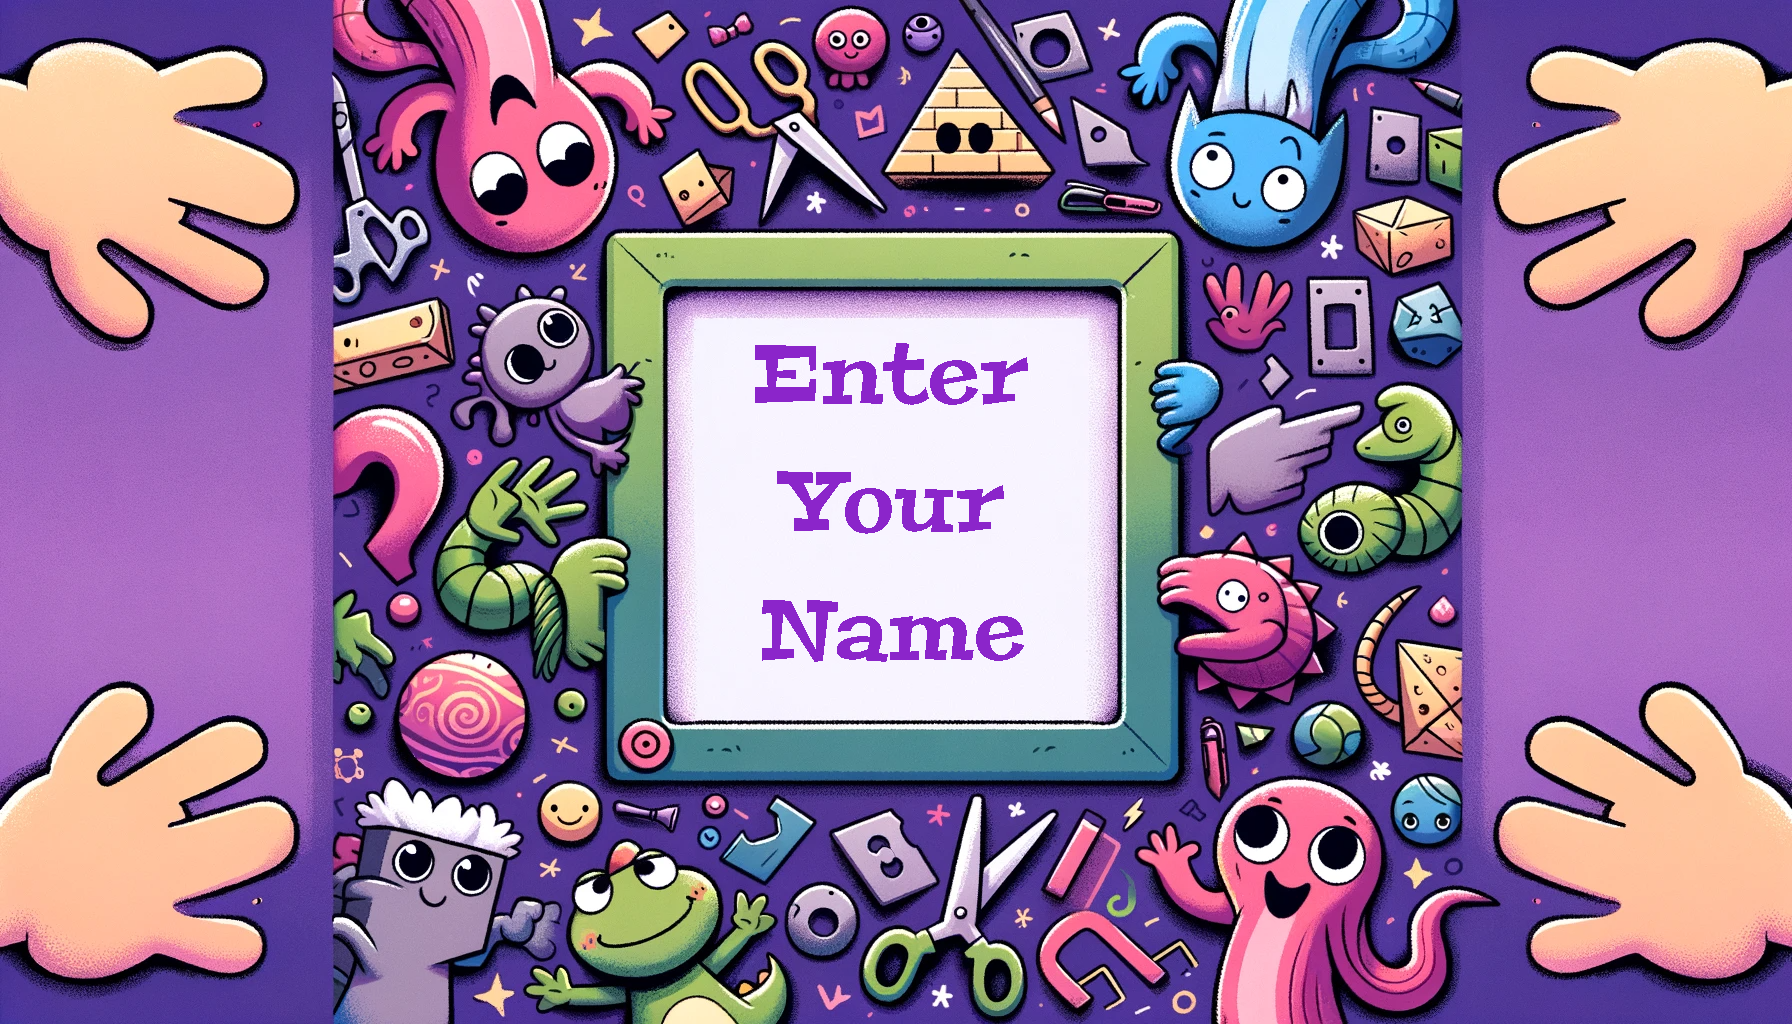
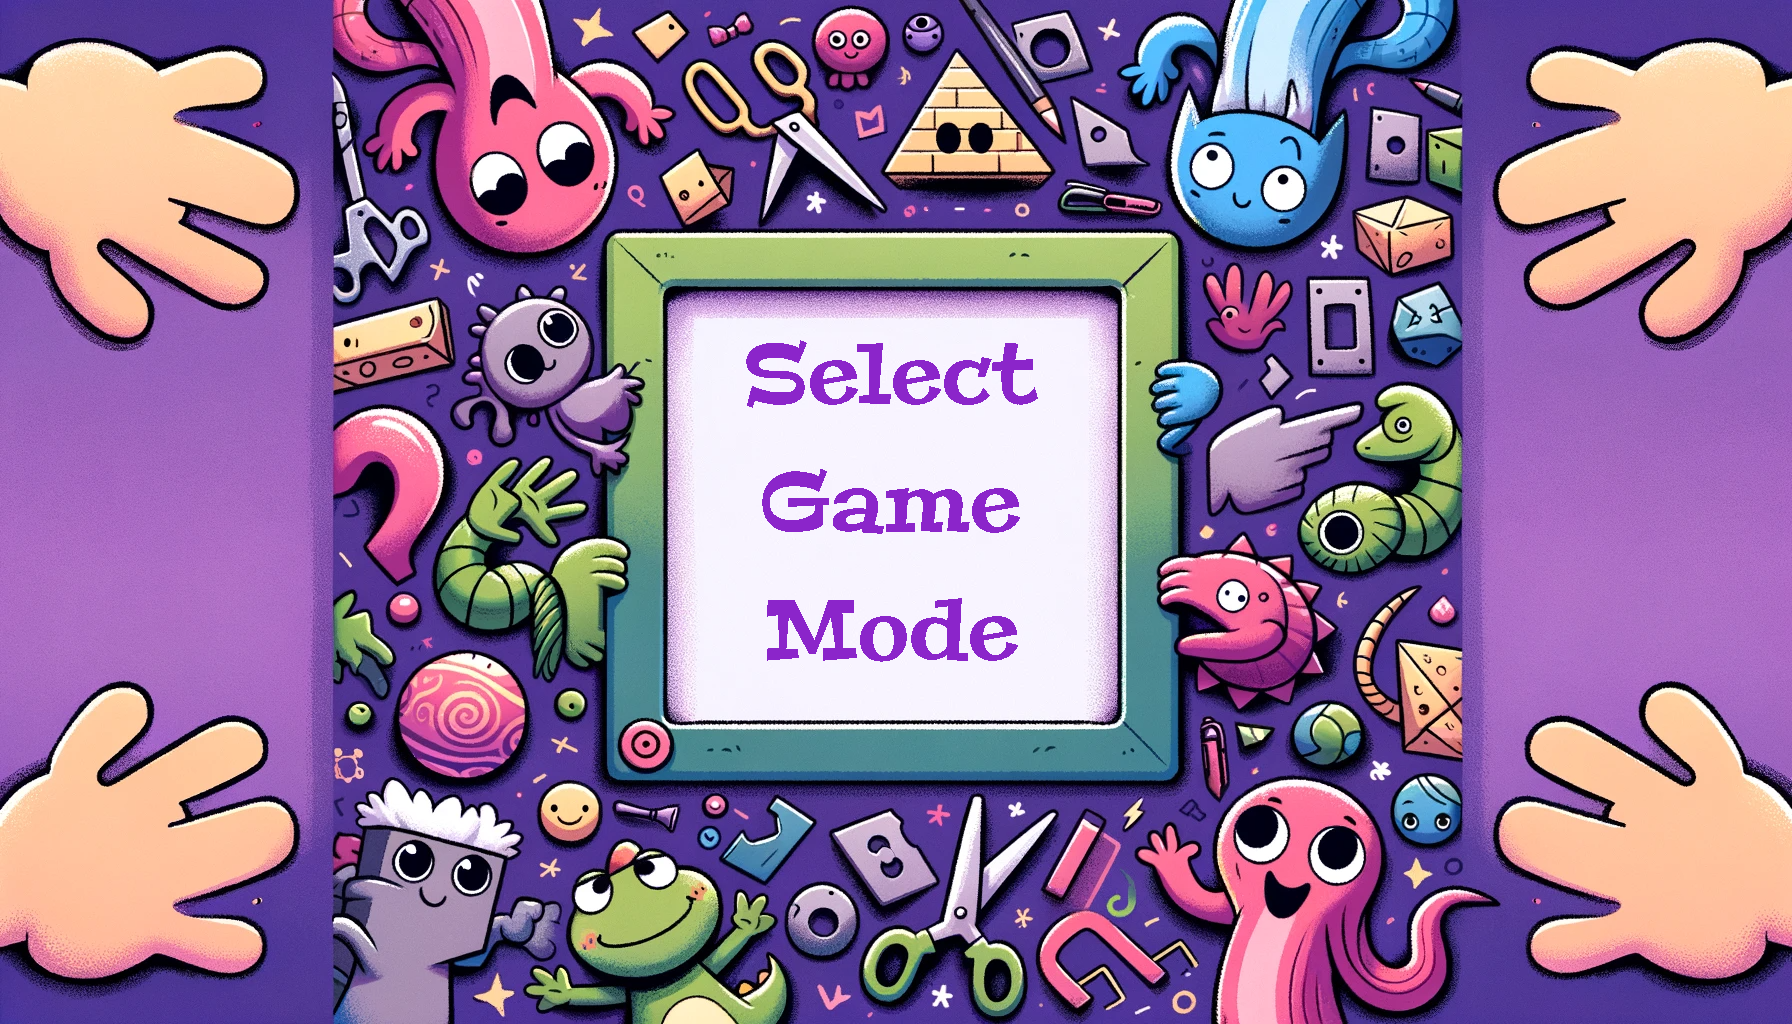
Select Game mode page push

Changed region(s): [[0.4062, 0.3125, 0.5938, 0.4062], [0.4062, 0.4375, 0.5625, 0.5312], [0.4062, 0.5625, 0.5625, 0.6562]]

diff --git a/styles/style.css b/styles/style.css
@@ -9,27 +9,22 @@
 }
 /* Intro body */
 .homeBody{
-    background-image: url(/assets/first_background.png);
+    background-image: url(/assets/1_background_with_text.png);
     background-repeat: no-repeat;
     background-position: center;
     background-size: cover;
     background-attachment: fixed;
-    /* position: relative;
-  width: 100%;
-  height: 100vh;
-  background-image: url(/assets/first_background.png);
-  background-size: cover;
-  margin: 0; */
-}
-.midText123 {
-    position: relative;
-    top: 200px; /* Change this value to move the text up or down */
-    left: 500px; /* Change this value to move the text left or right */
-    color: #8B25CA; /* Text color */
-    /* Add more styling as needed */
-    font-size: 56px;
-  }
 
+}
+.fixed-bottom{
+    margin-bottom: 30px;
+}
+.btn{
+    background-color: #7B1A9D;
+    font-family: peralta;
+    color: #fff;
+    box-shadow: 0px 0px 8px 10px #8a038f;
+}
 
 
 /* main game body */
@@ -40,4 +35,10 @@
     background-size: cover;
     background-attachment: fixed;
 }
-
+.namesBody{
+    background-image: url(/assets/2_background_with_text.png);
+    background-repeat: no-repeat;
+    background-position: center;
+    background-size: cover;
+    background-attachment: fixed;
+}

diff --git a/index.html b/index.html
@@ -4,7 +4,7 @@
 <head>
     <meta charset="utf-8">
     <meta name="viewport" content="width=device-width, initial-scale=1">
-    <title>Bootstrap demo</title>
+    <title>Select Game Mode</title>
     <link href="https://cdn.jsdelivr.net/npm/bootstrap@5.3.2/dist/css/bootstrap.min.css" rel="stylesheet"
         integrity="sha384-T3c6CoIi6uLrA9TneNEoa7RxnatzjcDSCmG1MXxSR1GAsXEV/Dwwykc2MPK8M2HN" crossorigin="anonymous">
         <link rel="preconnect" href="https://fonts.googleapis.com">
@@ -31,10 +31,14 @@
     </nav>
 <!-- Navbar end -->
 
-<!-- "Enter Your Name" text Start-->
-<p class="midText text-center" style="margin-top: 220px;">Select <br> Game <br>Mode</p>
-
-<!-- "Enter Your Name" text End-->
+<!-- "GameModes Buttons"  Start-->
+<div class="fixed-bottom">
+<div class="d-flex justify-content-evenly">
+    <button type="button" class="btn btn-danger btn-lg">1 vs 1</button>
+    <button type="button" class="btn btn-danger  btn-lg">1 vs CPU</button>
+</div>
+</div>
+<!-- "GameModes Buttons"  End-->
 
 
 

diff --git a/Pages/names.html b/Pages/names.html
@@ -4,7 +4,7 @@
 <head>
     <meta charset="utf-8">
     <meta name="viewport" content="width=device-width, initial-scale=1">
-    <title>The Game</title>
+    <title>Enter Your Name</title>
     <link href="https://cdn.jsdelivr.net/npm/bootstrap@5.3.2/dist/css/bootstrap.min.css" rel="stylesheet"
         integrity="sha384-T3c6CoIi6uLrA9TneNEoa7RxnatzjcDSCmG1MXxSR1GAsXEV/Dwwykc2MPK8M2HN" crossorigin="anonymous">
         <link rel="preconnect" href="https://fonts.googleapis.com">
@@ -13,7 +13,7 @@
     <link rel="stylesheet" href="../styles/style.css">
 </head>
 
-<body  class="gameBody">
+<body  class="namesBody">
     <!-- Navbar start -->
     <nav class="navbar navbar-expand-lg ">
         <div class="container-fluid">
@@ -31,10 +31,9 @@
     </nav>
 <!-- Navbar end -->
 
-<!-- "" text Start-->
+<!-- "Enter Your Name" text Start-->
 
-
-<!-- "" text End-->
+<!-- "Enter Your Name" text End-->
 
 
 
